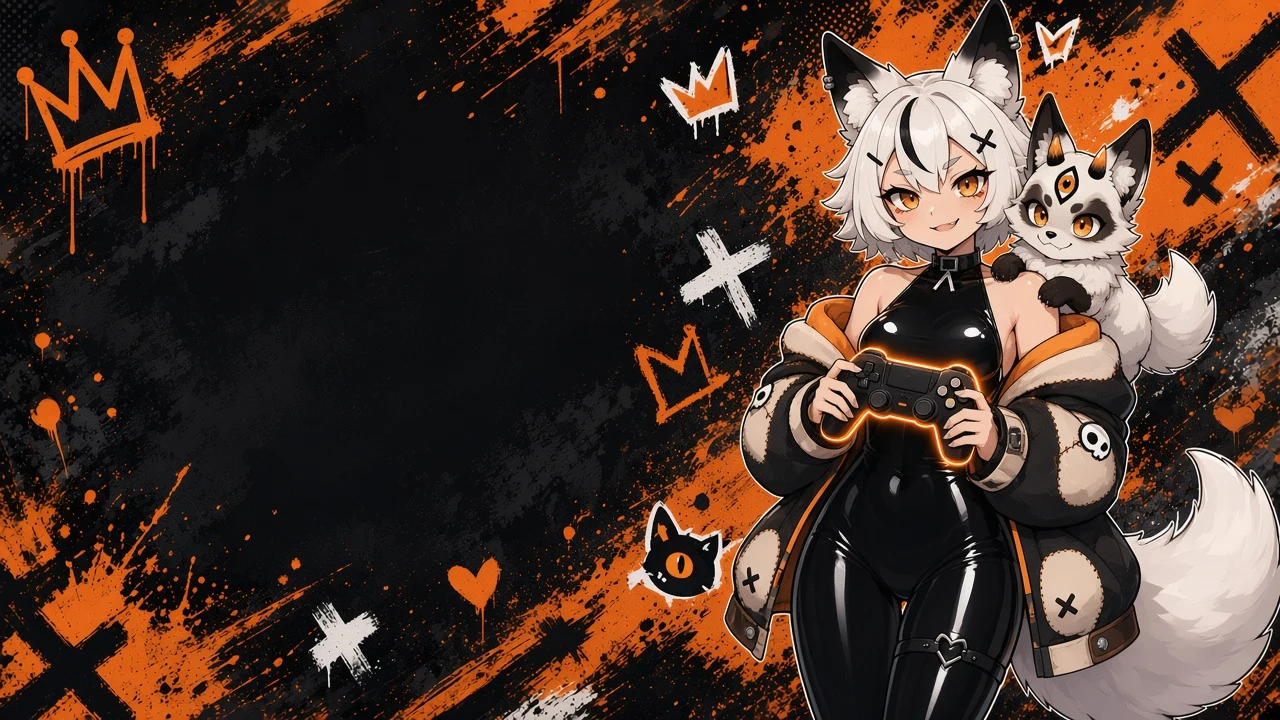
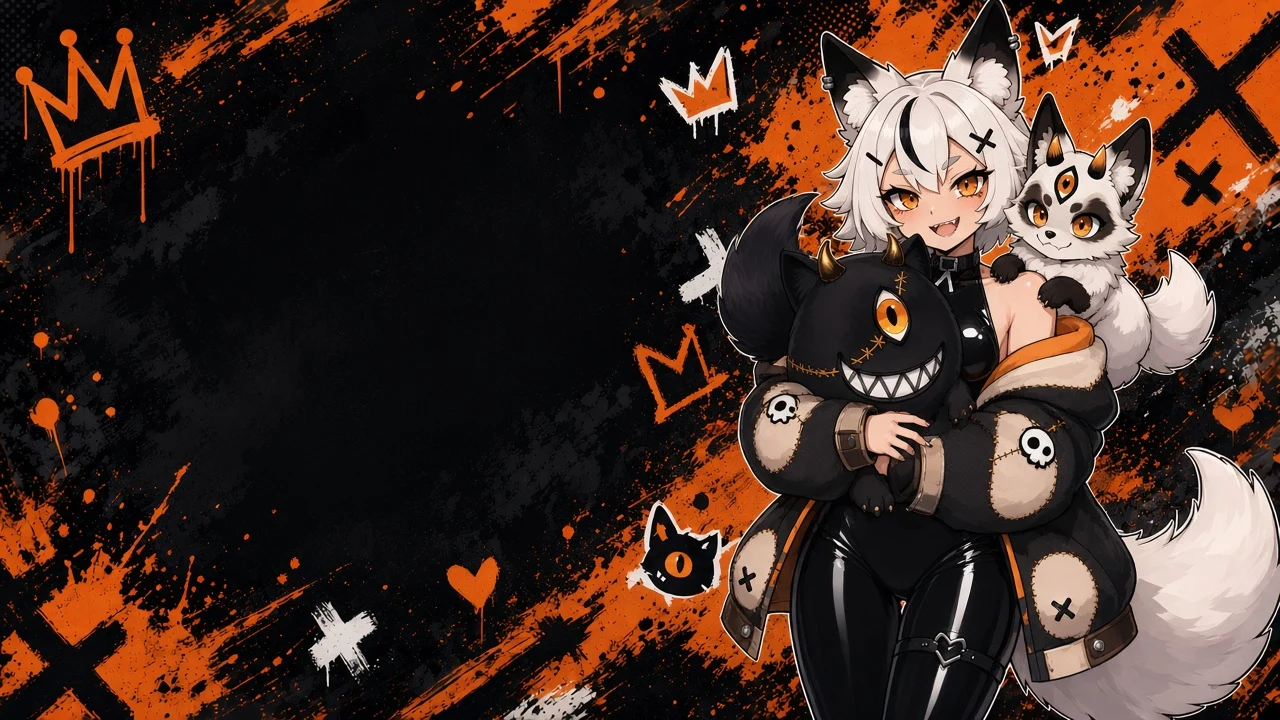
New hero art

diff --git a/index.html b/index.html
@@ -1,6 +1,6 @@
 <!doctype html><html lang="en"><head><meta charset="utf-8"><meta name="viewport" content="width=device-width,initial-scale=1,viewport-fit=cover">
 <title>Kitsura Nines · Horror VTuber</title><meta name="description" content="Kitsura Nines, a marble fox VTuber who streams horror games.">
-<meta property="og:image" content="img/hero.webp"><meta name="theme-color" content="#0b0b0b">
+<meta property="og:image" content="img/hero.webp?v=2"><meta name="theme-color" content="#0b0b0b">
 <link rel="icon" type="image/svg+xml" href="img/mark.svg"><link rel="apple-touch-icon" href="img/apple-touch-icon.png">
 <link rel="preconnect" href="https://fonts.googleapis.com"><link rel="preconnect" href="https://fonts.gstatic.com" crossorigin>
 <link href="https://fonts.googleapis.com/css2?family=Exo+2:wght@400;600;800&family=Rubik+Glitch&family=Permanent+Marker&display=swap" rel="stylesheet">
@@ -43,7 +43,7 @@ footer{text-align:center;padding:2rem 1rem 3rem;opacity:.75;font-size:.85rem}foo
 .gh{font-weight:800;text-transform:uppercase;letter-spacing:.15em;color:var(--o);margin:1.4rem 0 .6rem;font-size:.95rem}.l{display:flex;align-items:center;gap:.6rem}.links svg{width:22px;height:22px;fill:currentColor}</style></head><body>
 <!-- EDIT PAGE LINKS: change label + href -->
 <nav class="nav"><a href="https://kitsuranines.github.io/static-hollow/" target="_blank" rel="noopener">Ref Sheets / Lore</a><a href="https://nines8ball.netlify.app/" target="_blank" rel="noopener">8 Ball App</a><a href="https://uwumarket.us/collections/kitsura-nines" target="_blank" rel="noopener">Merch</a><a href="#links">Socials</a></nav>
-<header class="hero"><img src="img/hero.webp" alt="Kitsura Nines holding a controller with Roger on her shoulder">
+<header class="hero"><img src="img/hero.webp?v=2" alt="Kitsura Nines hugging the Dubious Creature with Roger on her shoulder">
 <div class="ht"><span class="tag">&#9819; HORROR VTUBER &#9819;</span>
 <div class="logo"><img src="img/mark.svg" alt="Kitsura Nines logo"><h1><span class="g" data-t="KITSURA">KITSURA</span><span class="g" data-t="NINES">NINES</span></h1></div>
 <p class="sub">Marble fox. Bad decisions in dark hallways. <b>Screaming so you don't have to.</b></p>
